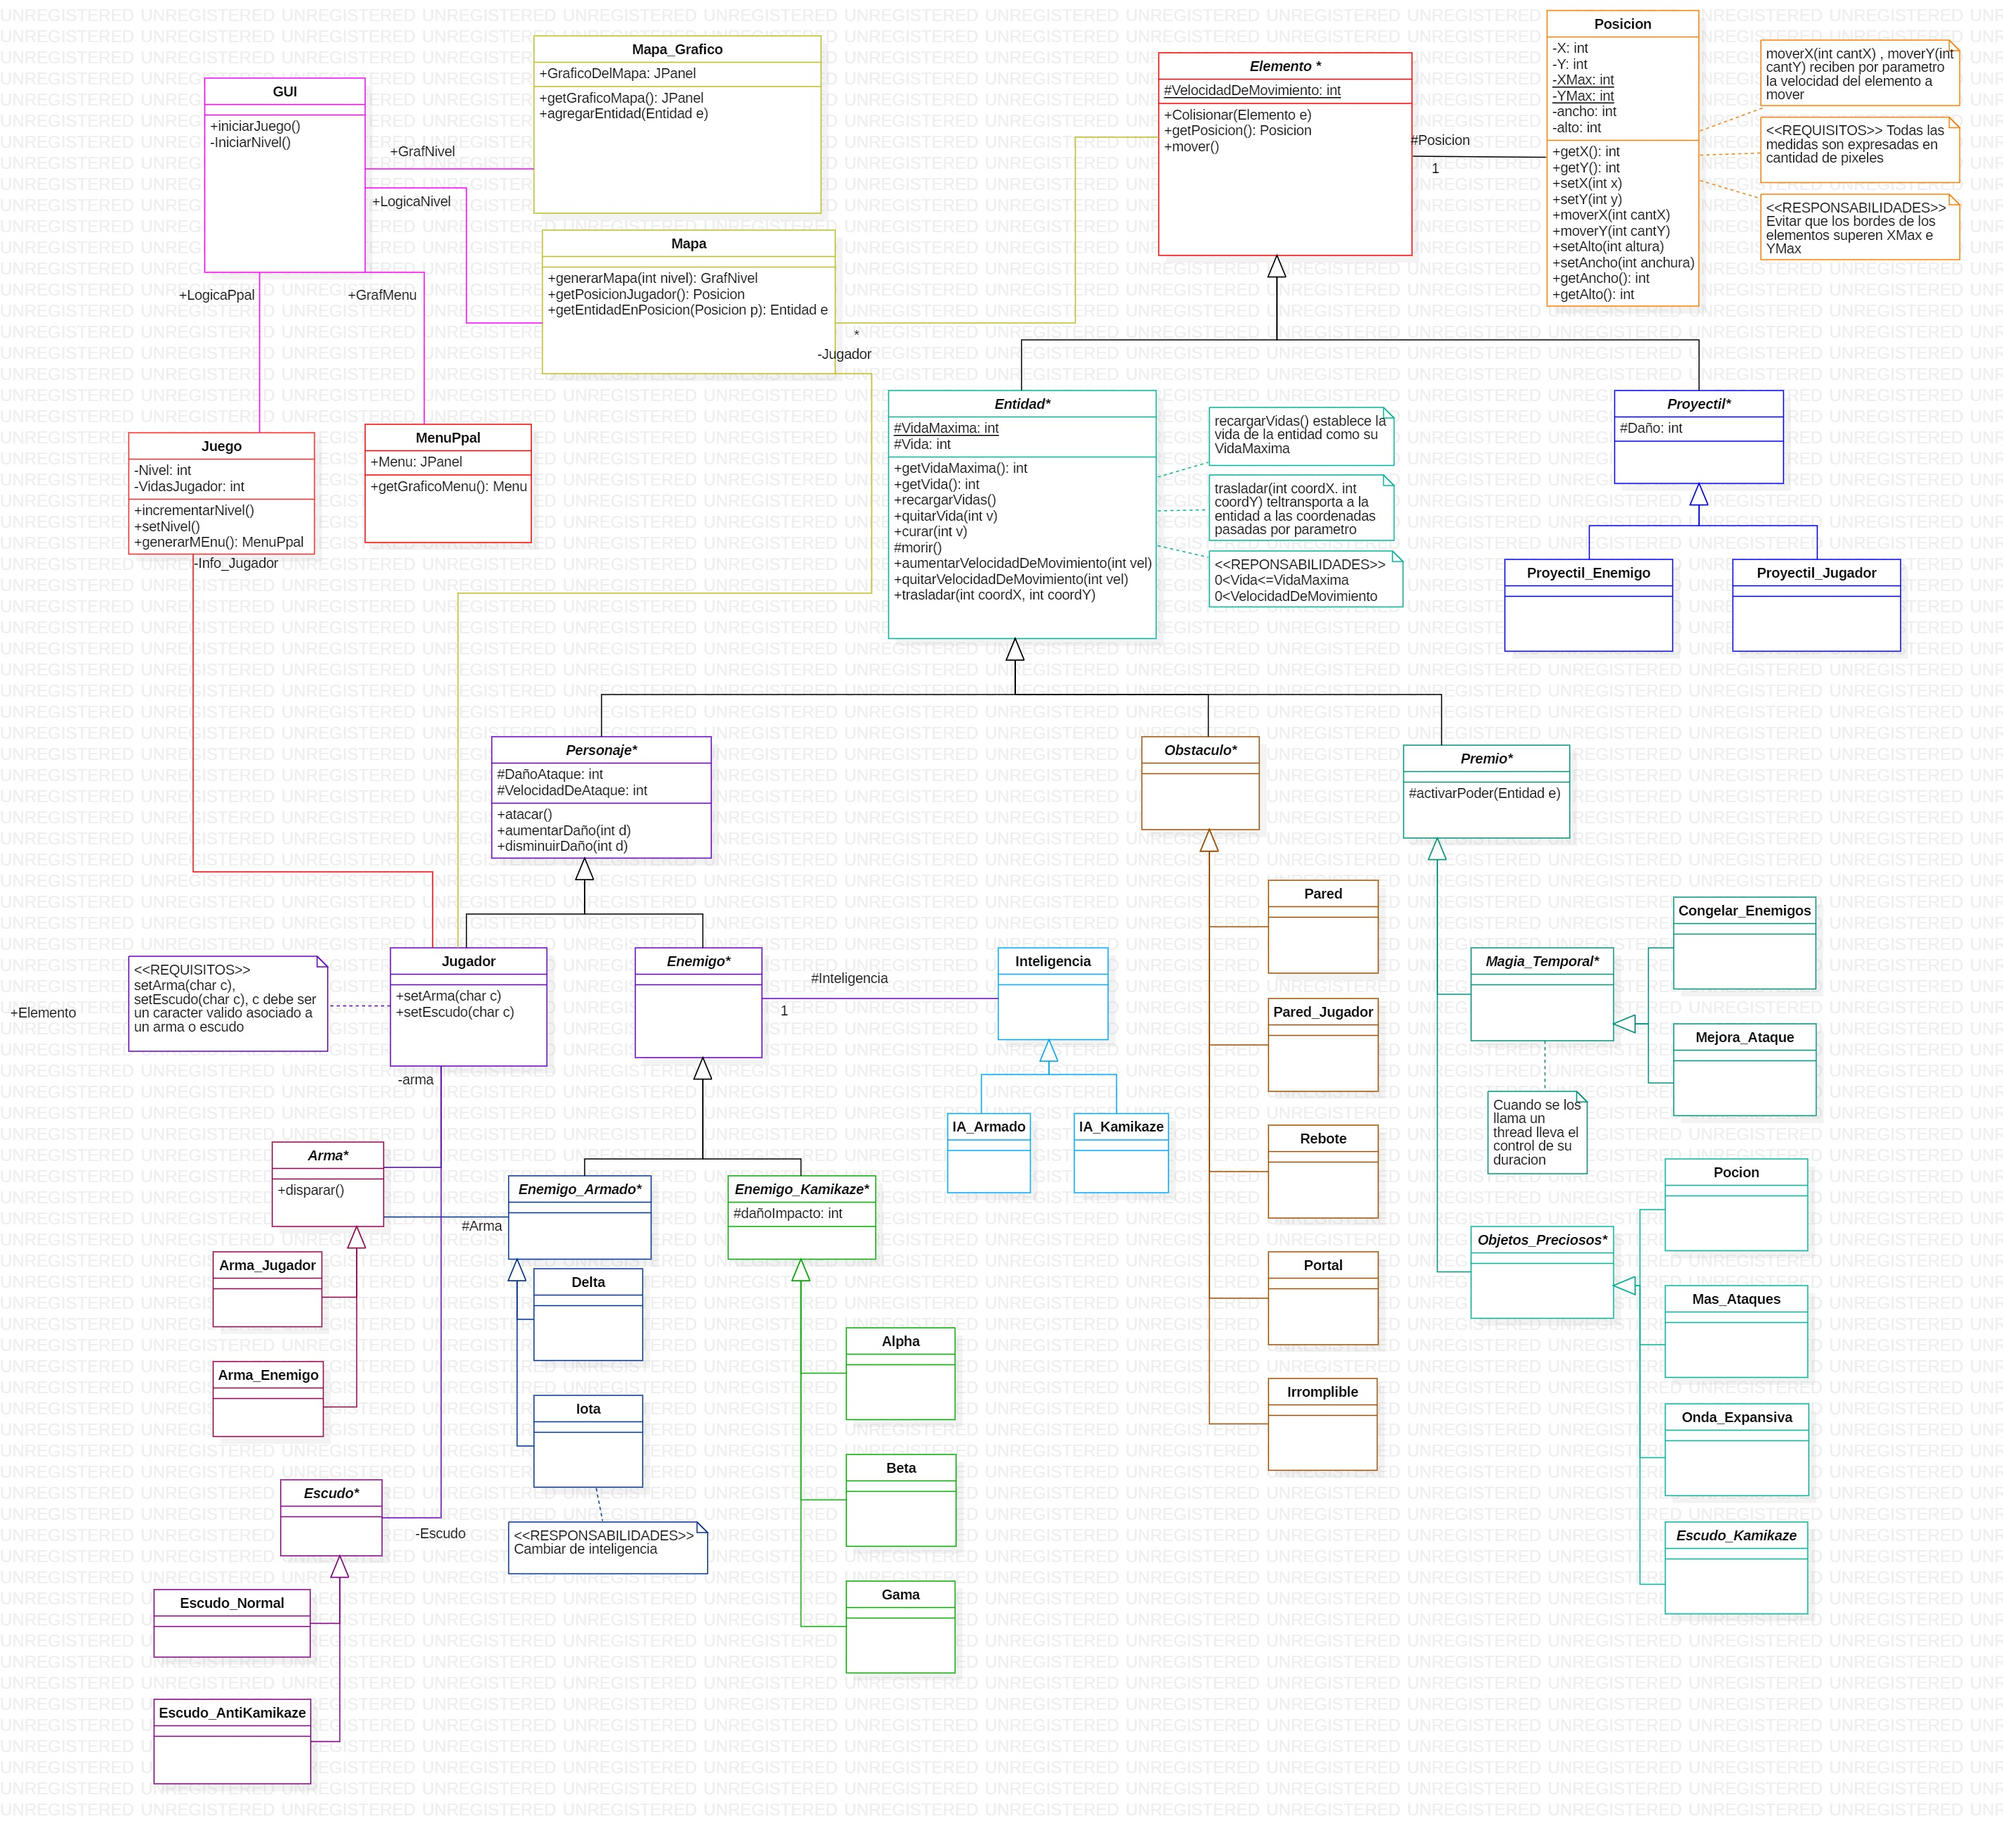
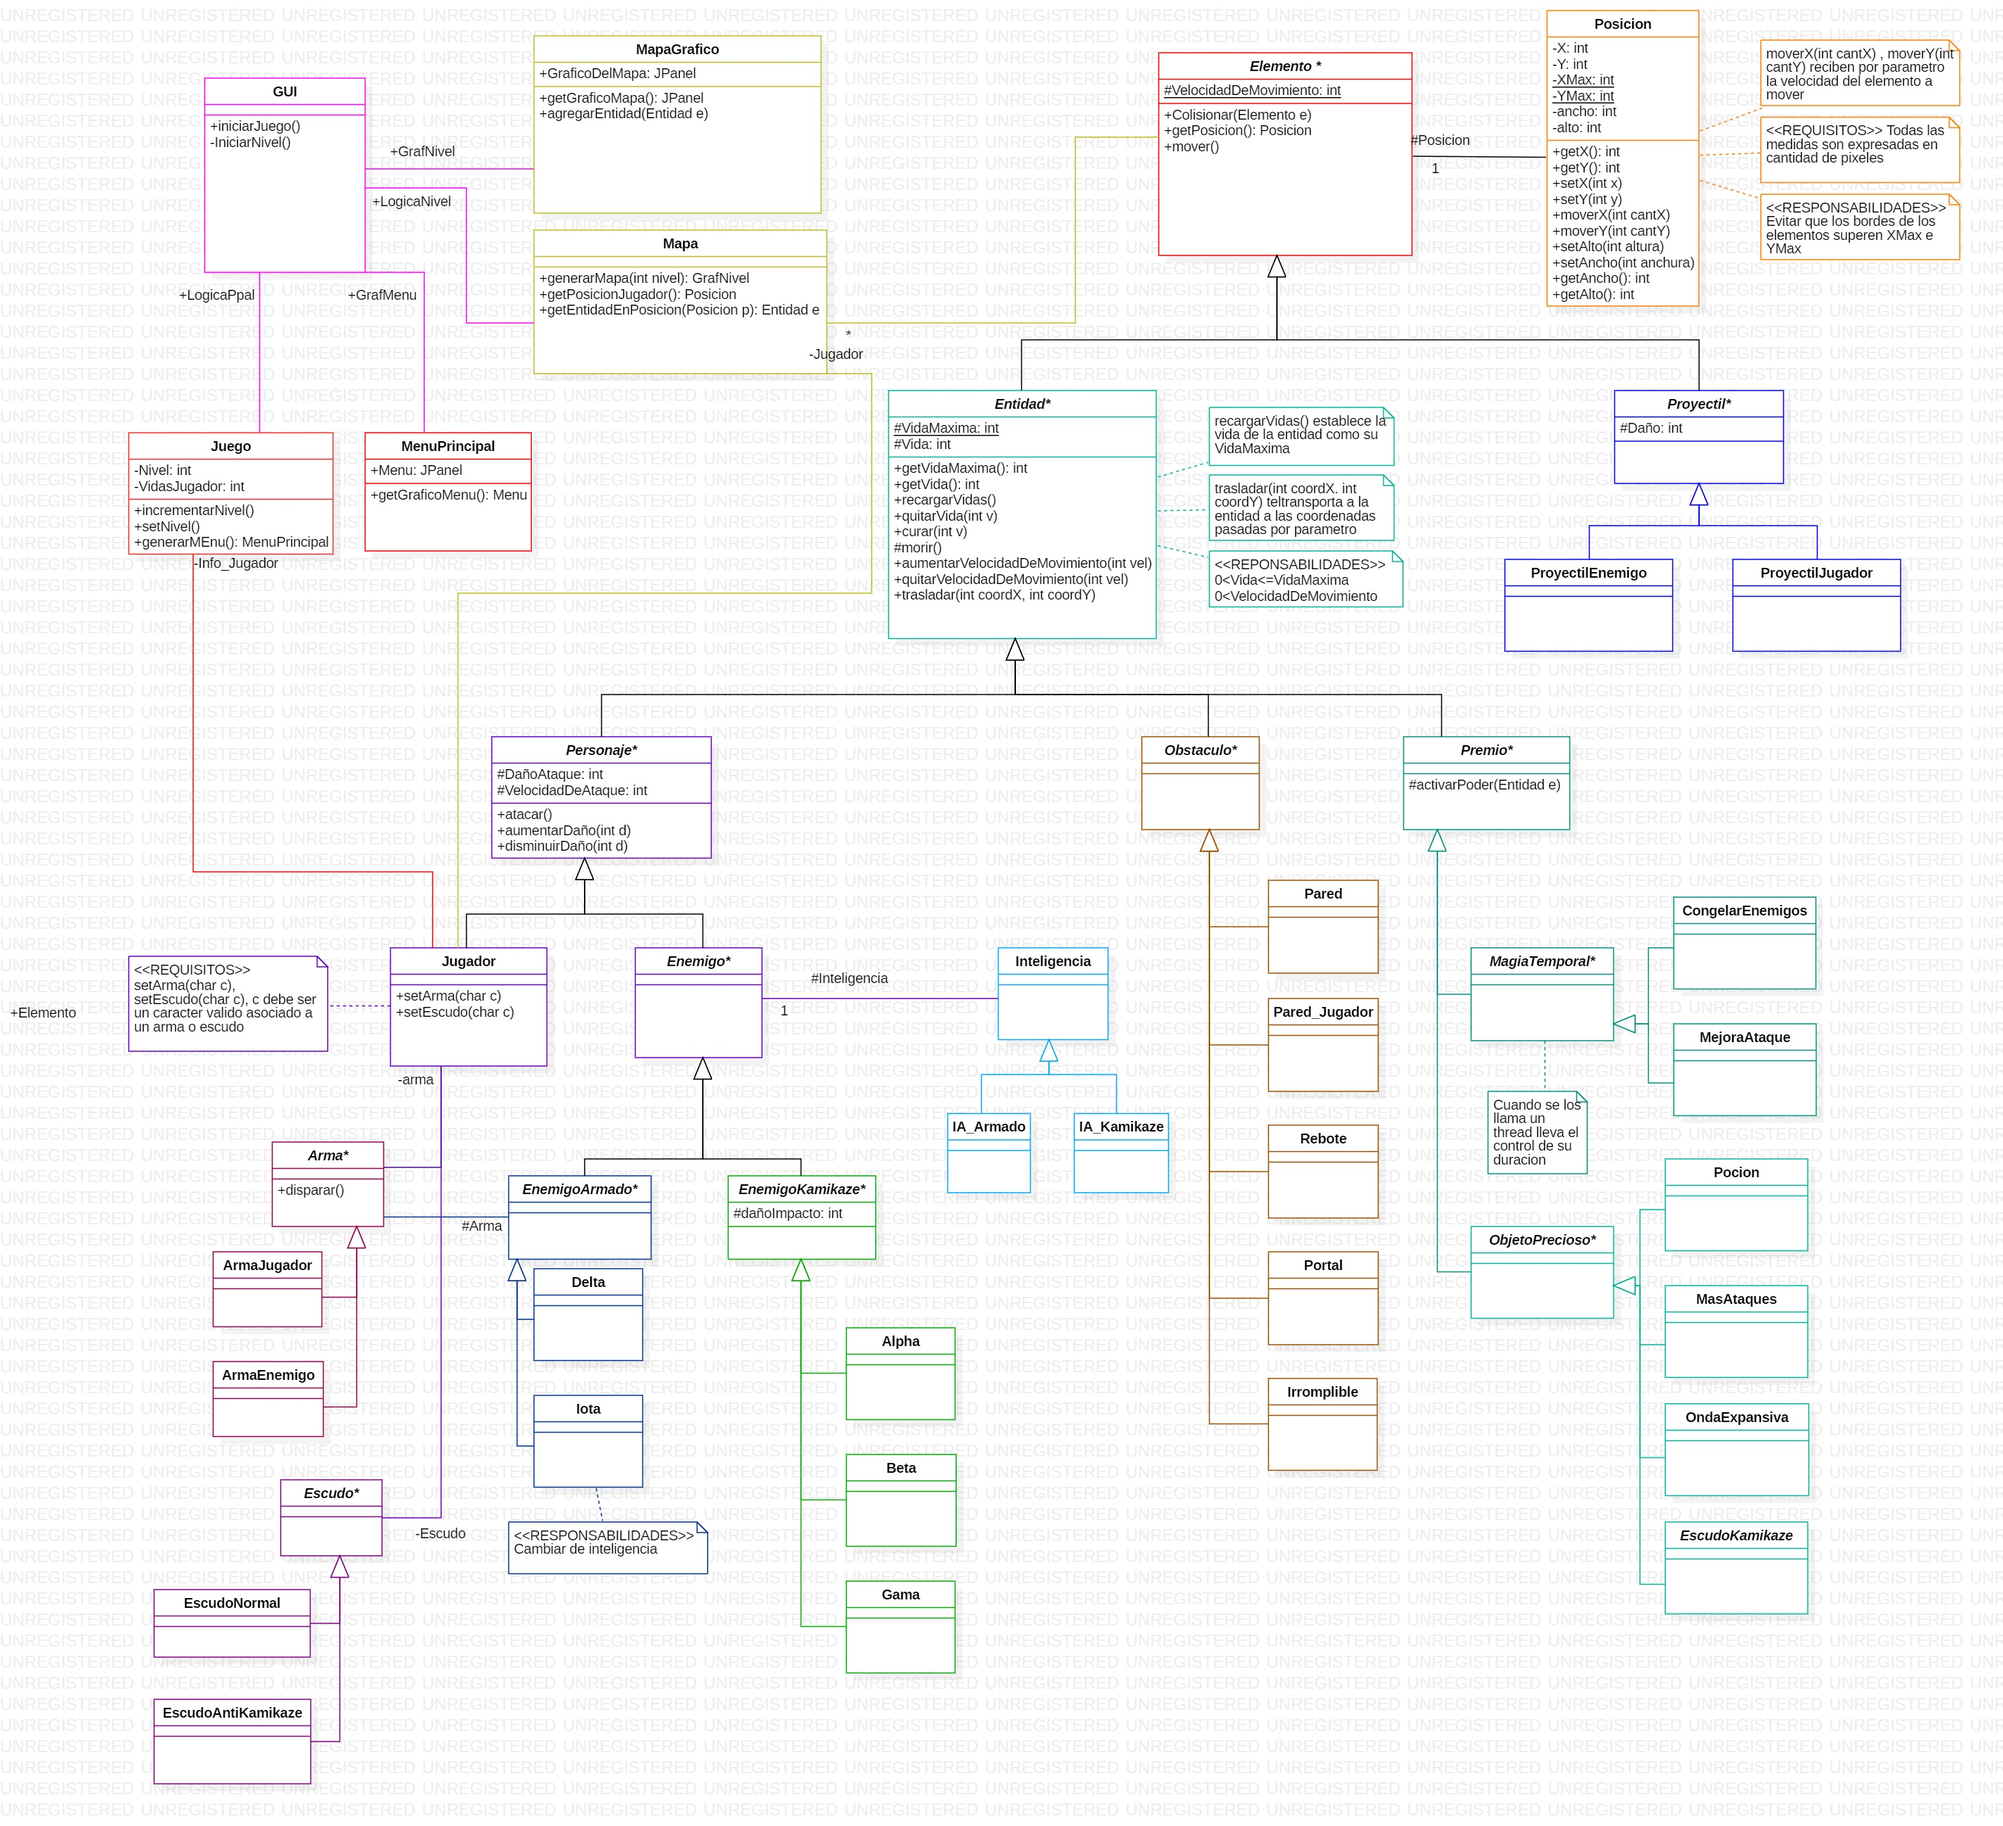
Encabezados de las clases y paquetes

diff --git a/ProyectoTDP/src/obstaculo/Obstaculo.java b/ProyectoTDP/src/obstaculo/Obstaculo.java
@@ -1,0 +1,7 @@
+package obstaculo;
+
+import entidad.Entidad;
+
+public abstract class Obstaculo extends Entidad {
+
+}

diff --git a/ProyectoTDP/src/entidad/Entidad.java b/ProyectoTDP/src/entidad/Entidad.java
@@ -1,0 +1,7 @@
+package entidad;
+
+import elemento.Elemento;
+
+public abstract class Entidad extends Elemento {
+
+}

diff --git a/ProyectoTDP/src/premio/Premio.java b/ProyectoTDP/src/premio/Premio.java
@@ -1,0 +1,7 @@
+package premio;
+
+import entidad.Entidad;
+
+public abstract class Premio extends Entidad {
+
+}

diff --git a/ProyectoTDP/src/jugador/Jugador.java b/ProyectoTDP/src/jugador/Jugador.java
@@ -1,0 +1,7 @@
+package jugador;
+
+import entidad.Personaje;
+
+public class Jugador extends Personaje {
+
+}

diff --git a/ProyectoTDP/src/premio/ObjetoPrecioso.java b/ProyectoTDP/src/premio/ObjetoPrecioso.java
@@ -1,0 +1,5 @@
+package premio;
+
+public abstract class ObjetoPrecioso extends Premio {
+
+}

diff --git a/ProyectoTDP/src/premio/CongelarEnemigos.java b/ProyectoTDP/src/premio/CongelarEnemigos.java
@@ -1,0 +1,5 @@
+package premio;
+
+public class CongelarEnemigos extends MagiaTemporal{
+
+}

diff --git a/ProyectoTDP/src/premio/MagiaTemporal.java b/ProyectoTDP/src/premio/MagiaTemporal.java
@@ -1,0 +1,5 @@
+package premio;
+
+public abstract class MagiaTemporal extends Premio {
+
+}

diff --git a/ProyectoTDP/src/premio/EscudoKamikaze.java b/ProyectoTDP/src/premio/EscudoKamikaze.java
@@ -1,0 +1,5 @@
+package premio;
+
+public class EscudoKamikaze extends ObjetoPrecioso{
+
+}

diff --git a/ProyectoTDP/src/premio/OndaExpansiva.java b/ProyectoTDP/src/premio/OndaExpansiva.java
@@ -1,0 +1,5 @@
+package premio;
+
+public class OndaExpansiva extends ObjetoPrecioso {
+
+}

diff --git a/ProyectoTDP/src/entidad/Personaje.java b/ProyectoTDP/src/entidad/Personaje.java
@@ -1,0 +1,5 @@
+package entidad;
+
+public abstract class Personaje extends Entidad {
+
+}

diff --git a/ProyectoTDP/src/premio/MejoraAtaque.java b/ProyectoTDP/src/premio/MejoraAtaque.java
@@ -1,0 +1,5 @@
+package premio;
+
+public class MejoraAtaque extends MagiaTemporal {
+
+}

diff --git a/ProyectoTDP/src/obstaculo/ParedJugador.java b/ProyectoTDP/src/obstaculo/ParedJugador.java
@@ -1,0 +1,5 @@
+package obstaculo;
+
+public class ParedJugador extends Obstaculo {
+
+}
